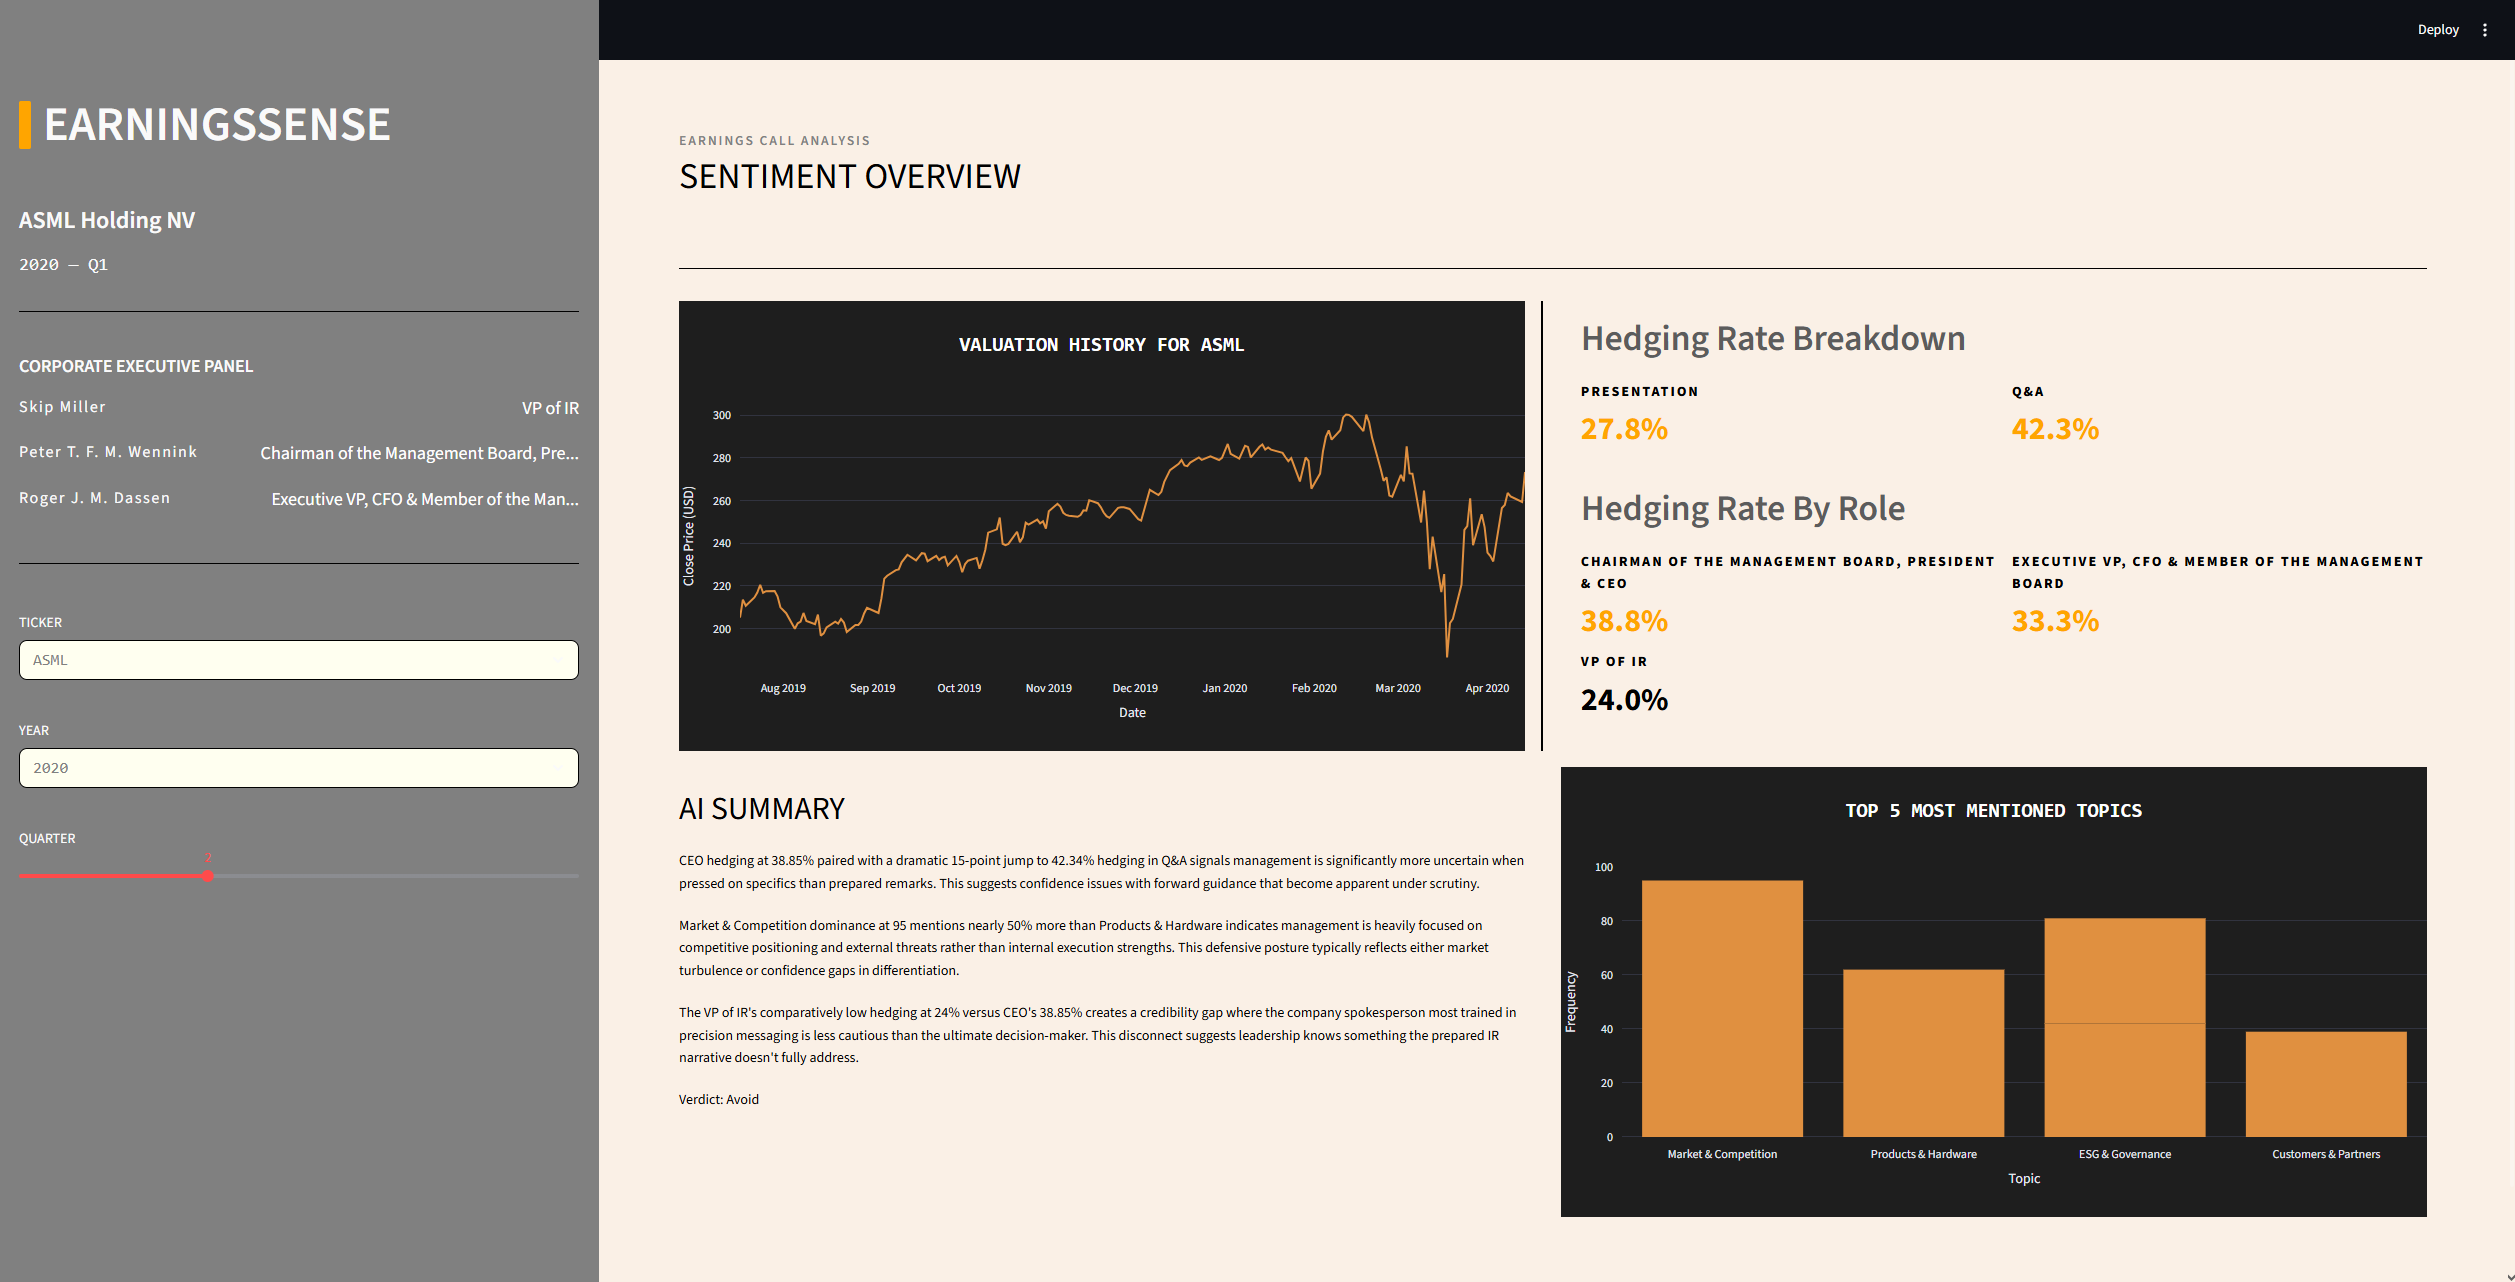
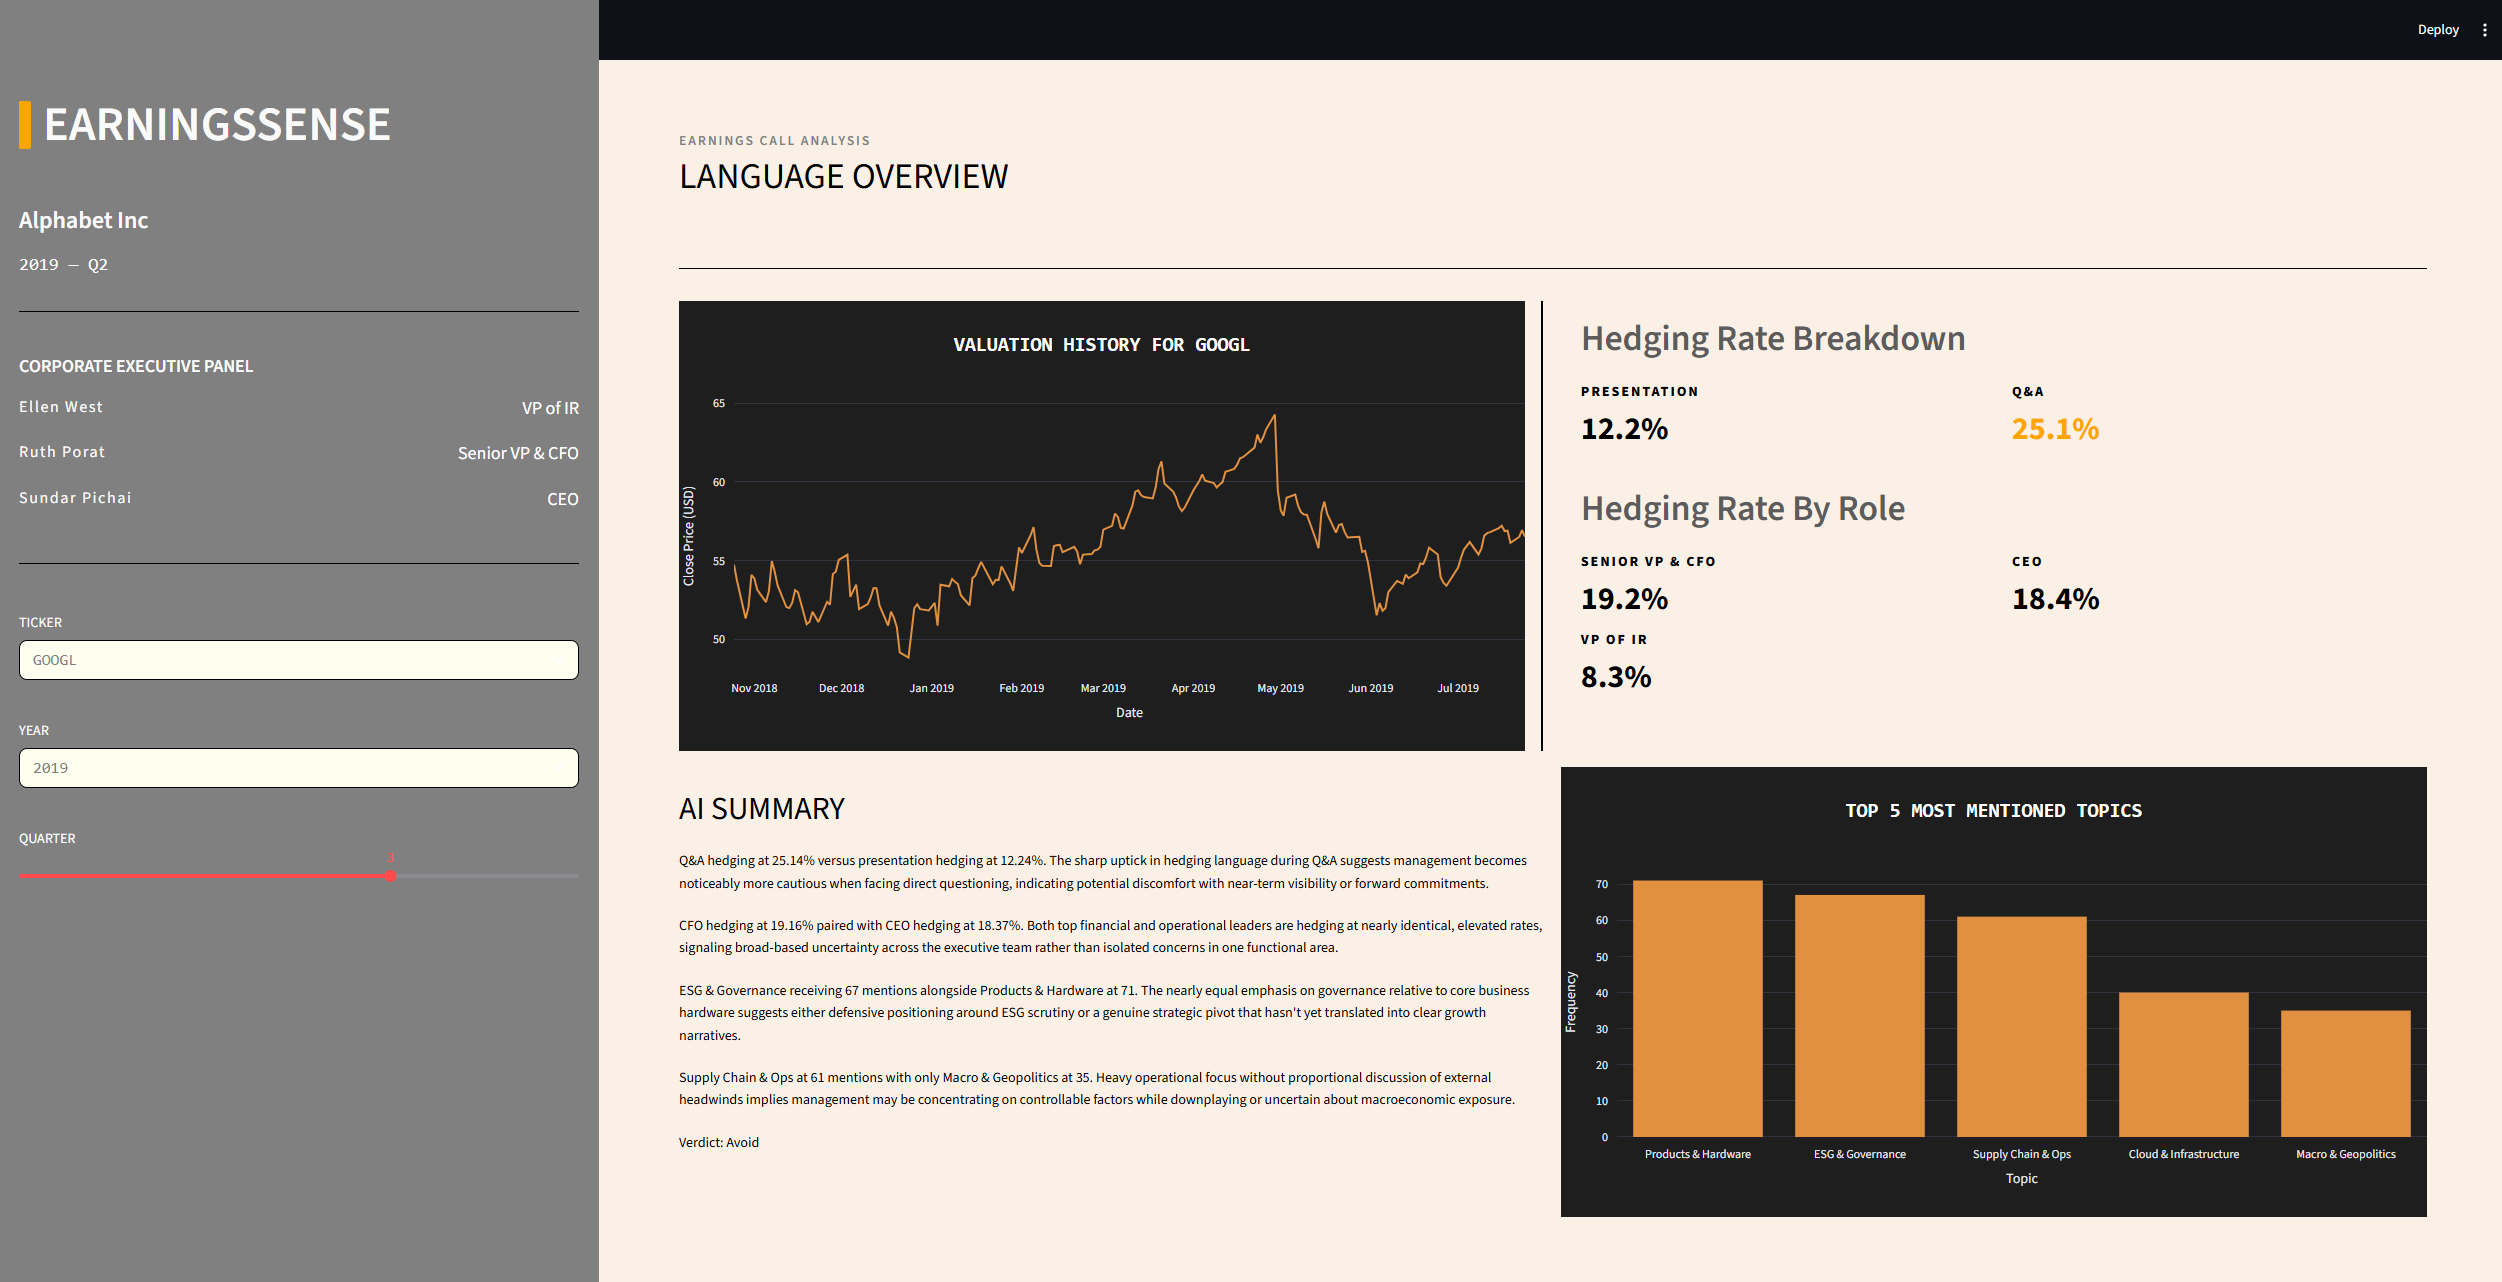
Fixed README

diff --git a/app/app.py b/app/app.py
@@ -93,7 +93,7 @@ st.markdown(
     """,
     unsafe_allow_html=True
 )
-st.metric(label="EARNINGS CALL ANALYSIS", value='SENTIMENT OVERVIEW')
+st.metric(label="EARNINGS CALL ANALYSIS", value='LANGUAGE OVERVIEW')
 st.markdown(
     """
     <style>
